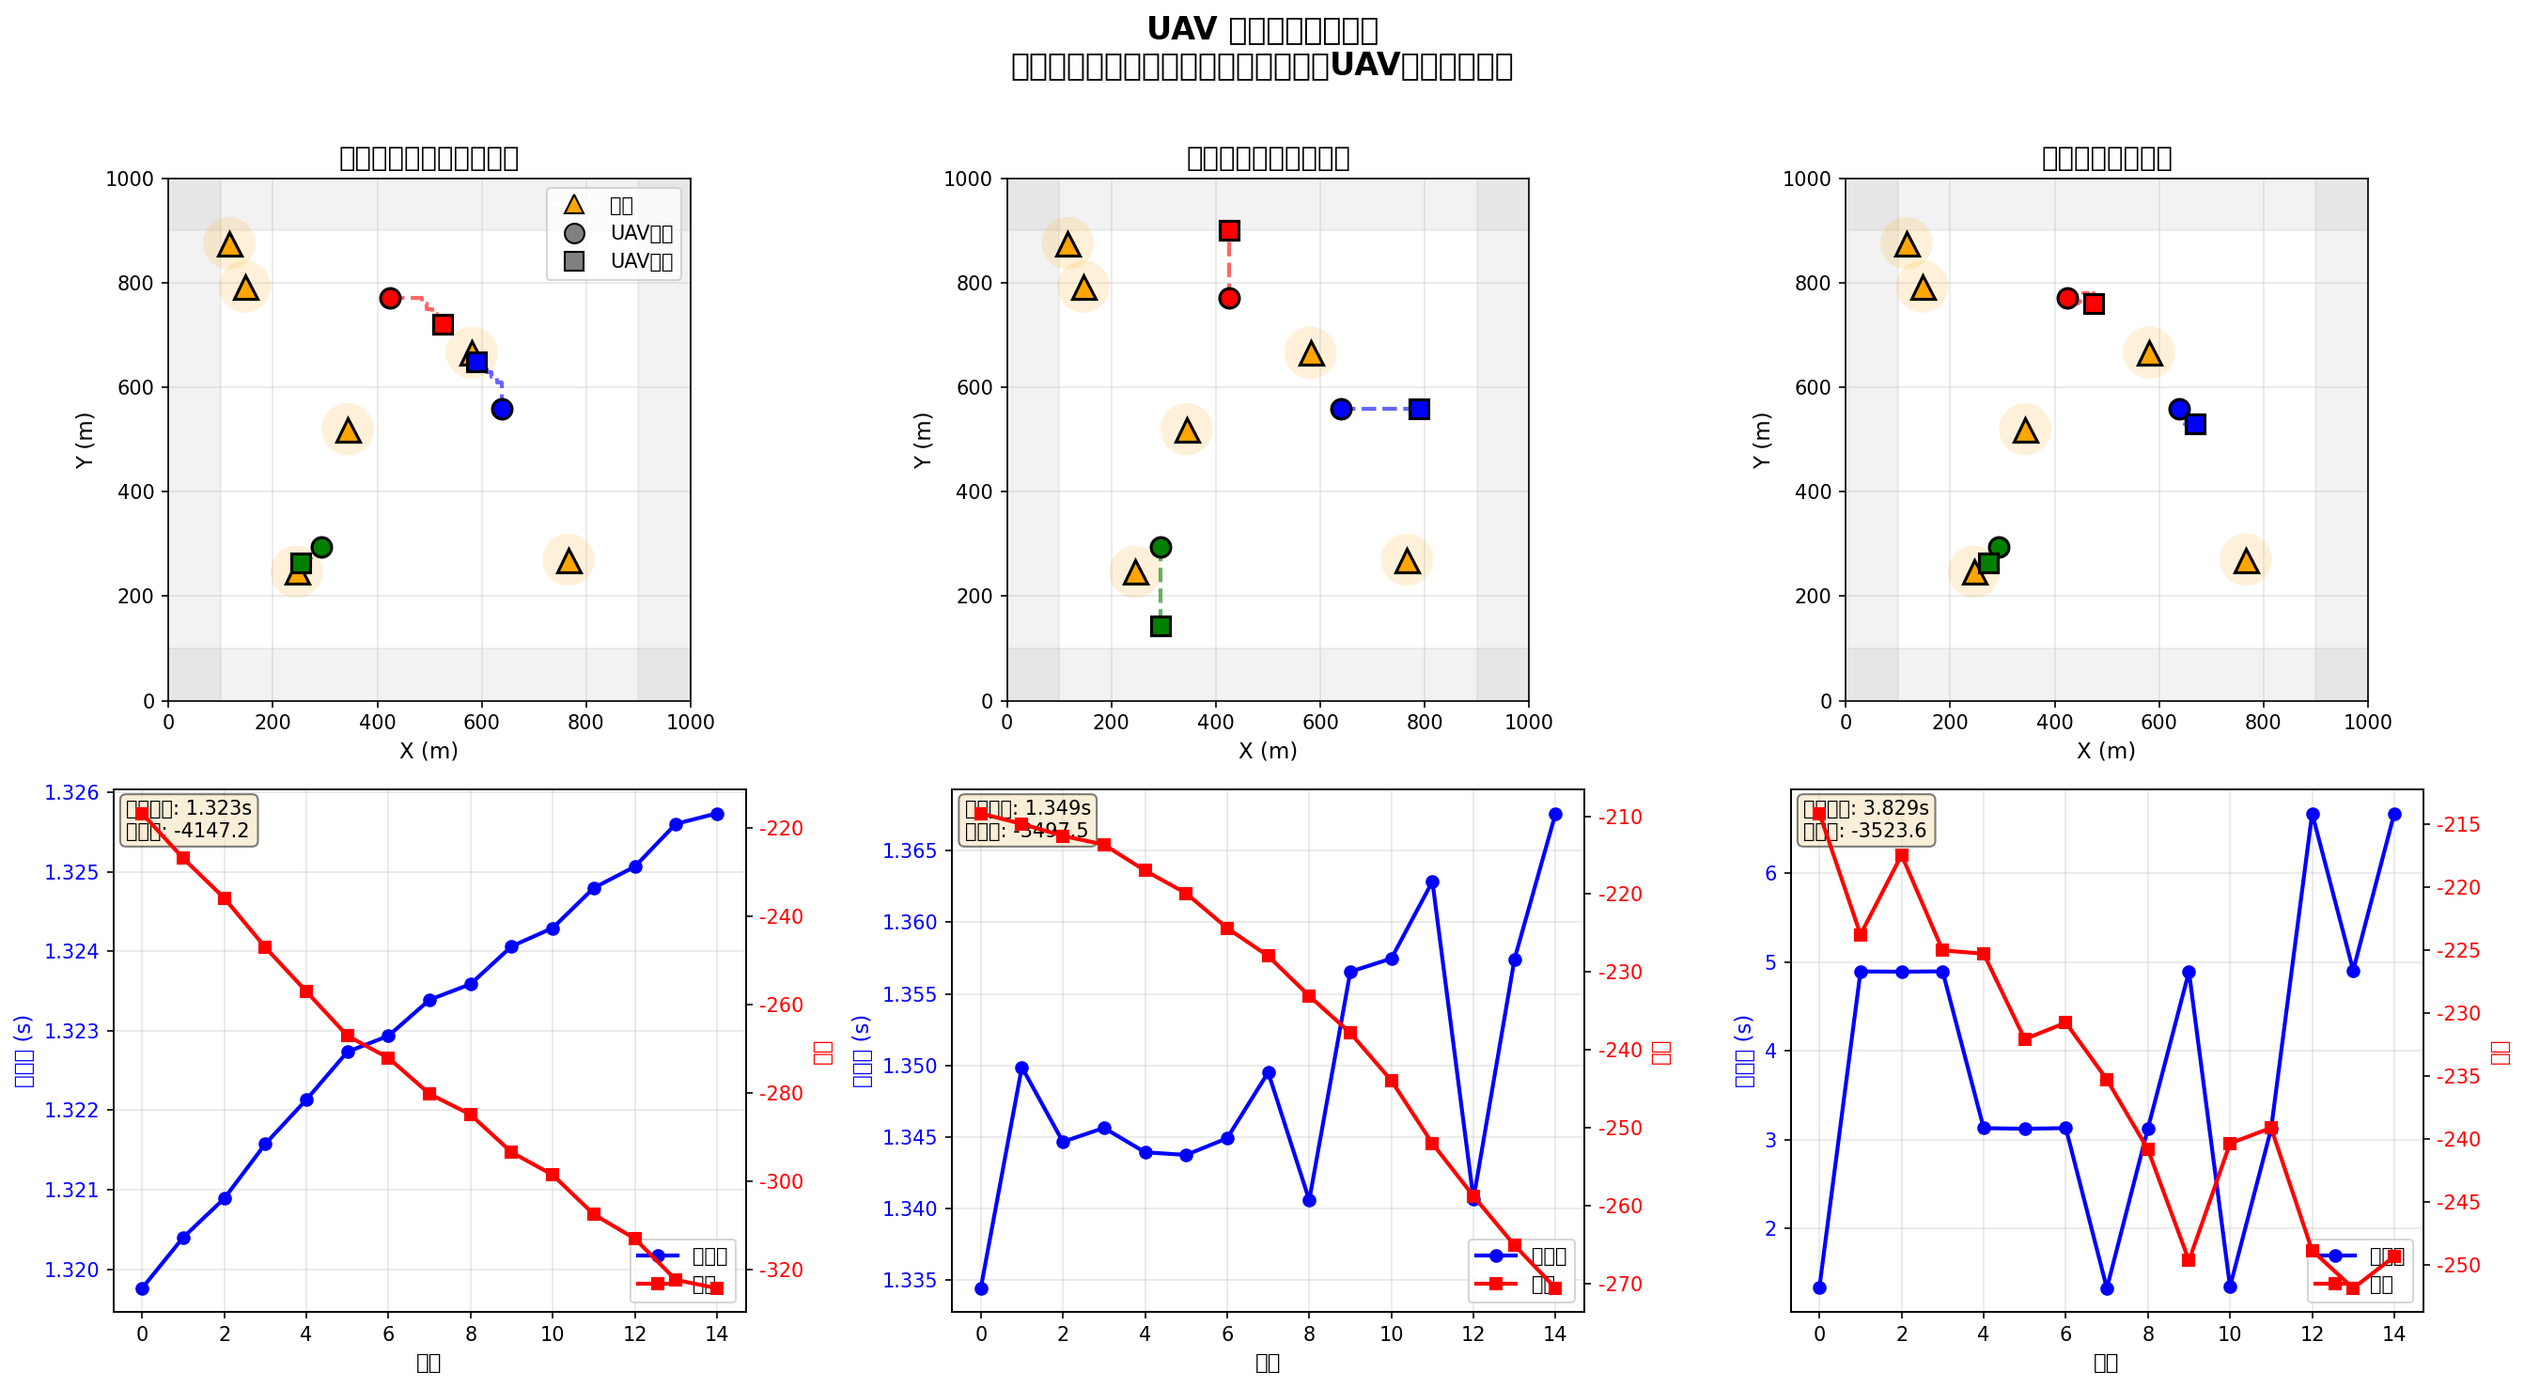
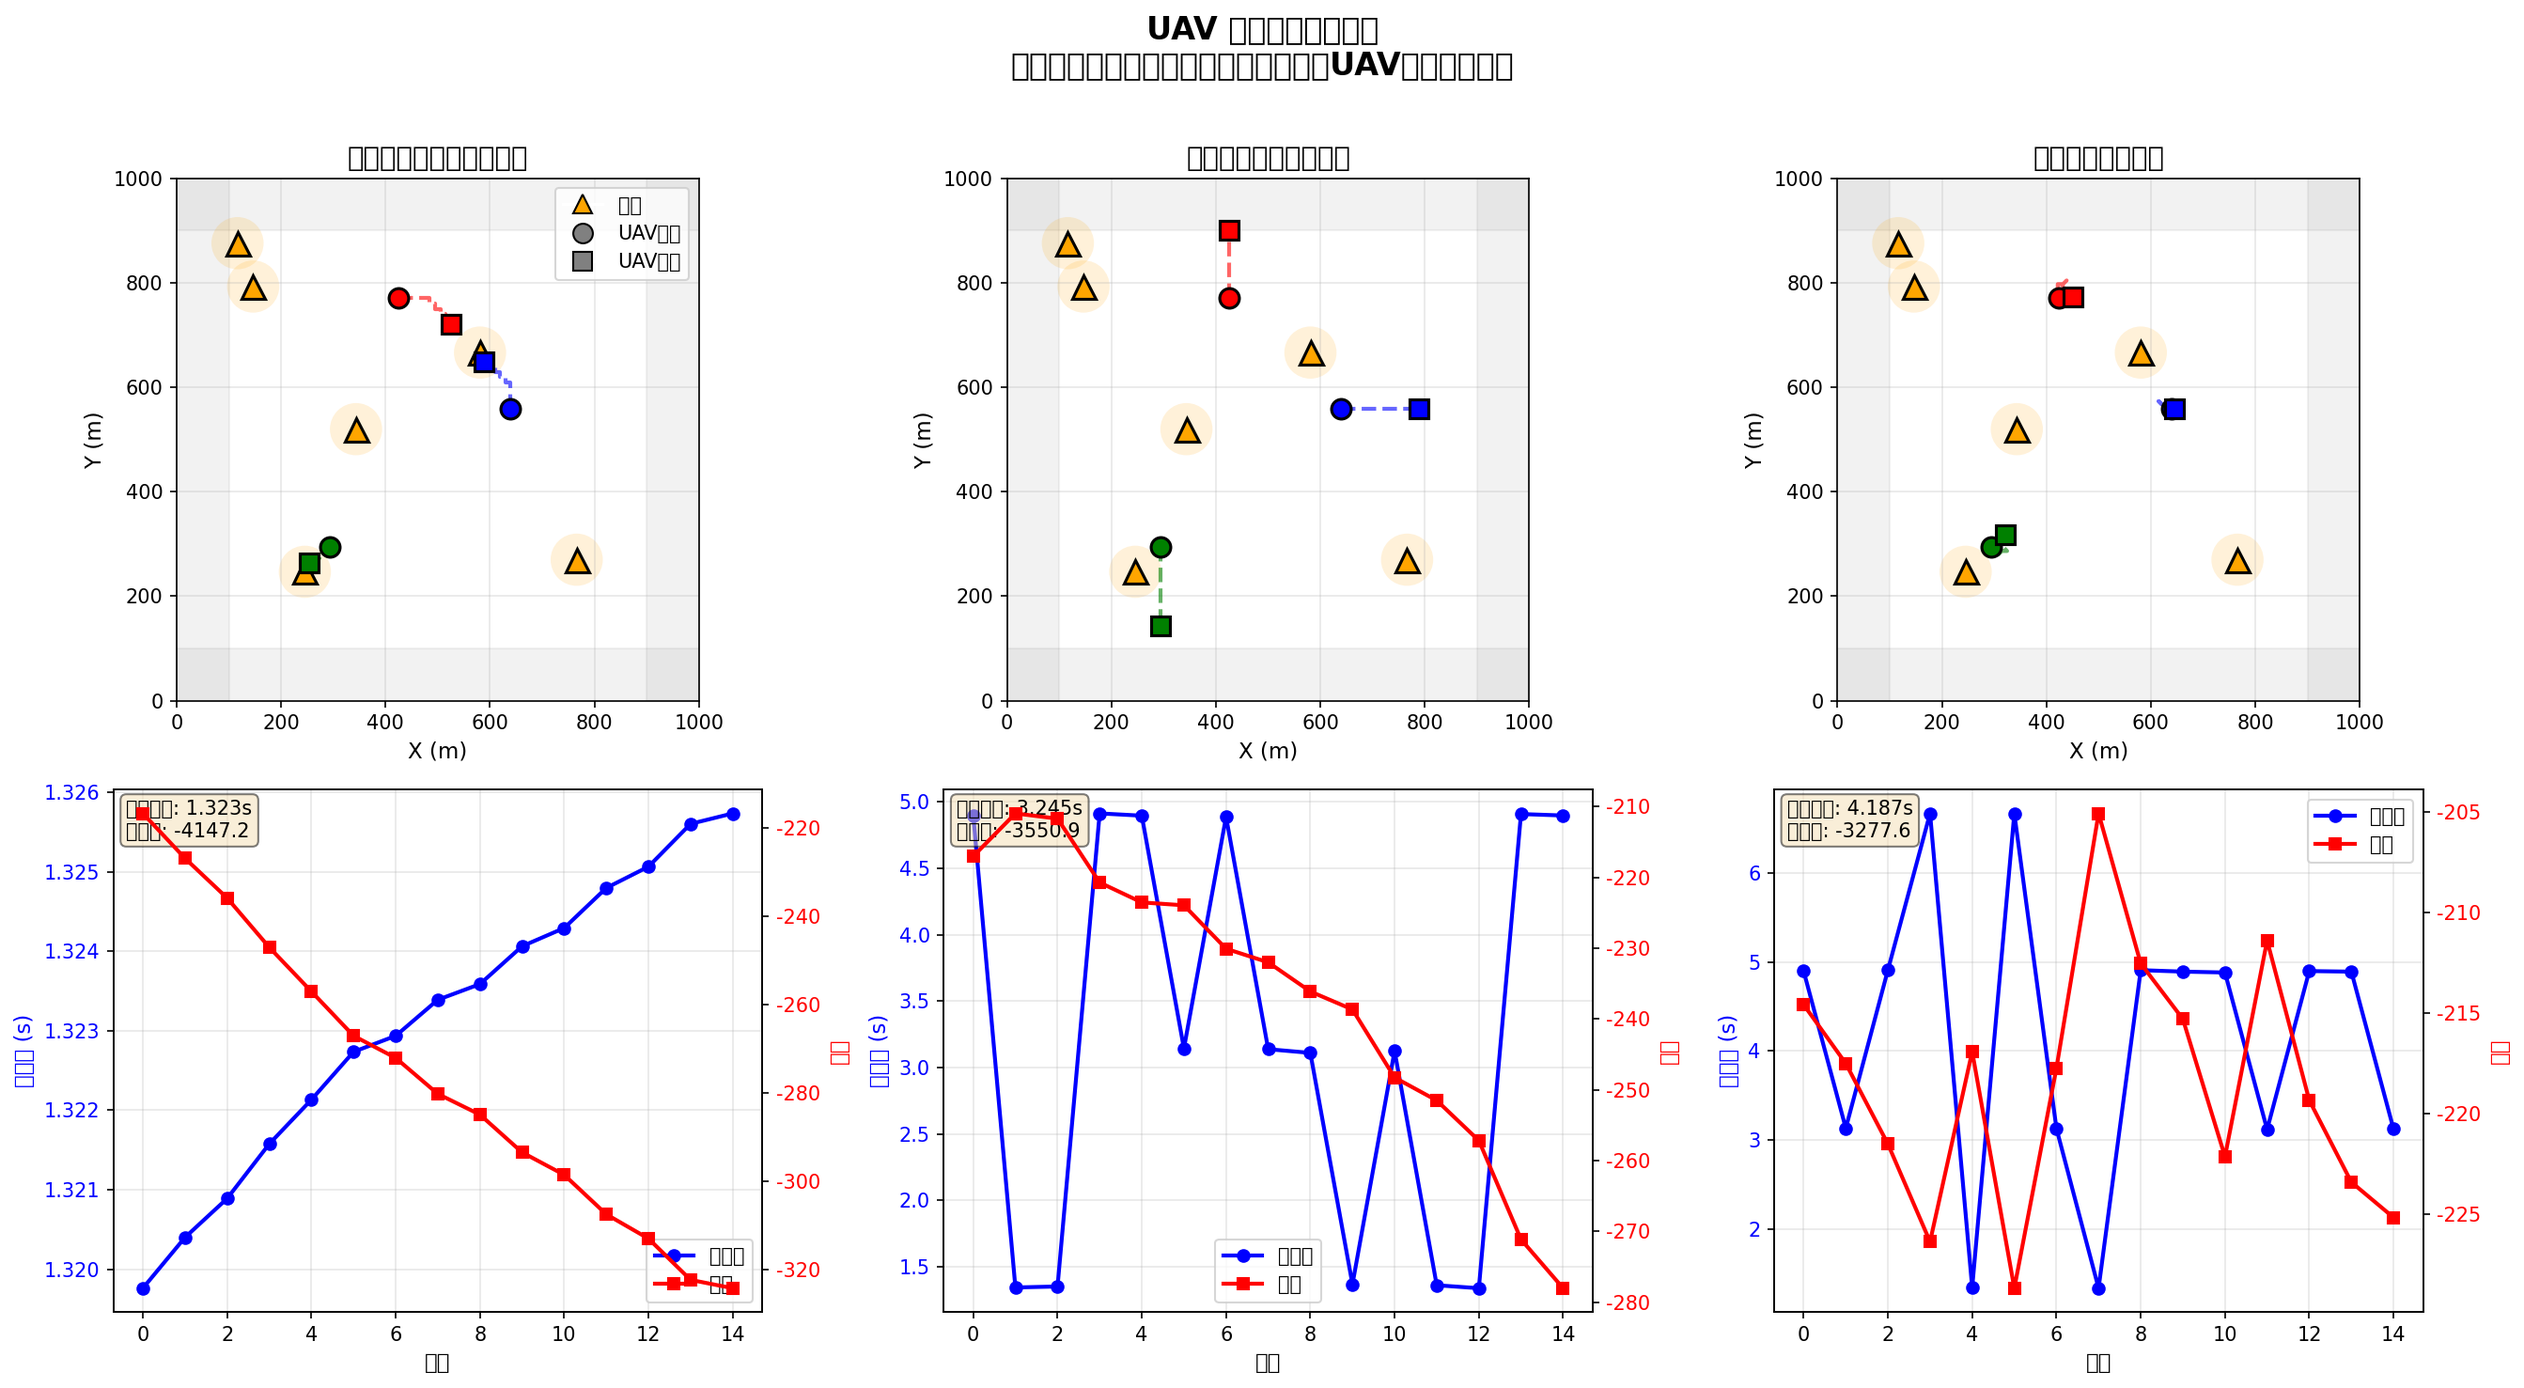
Address code review feedback: normalize vectors, fix constants, improve documentation

diff --git a/main.py b/main.py
@@ -57,9 +57,14 @@ class UAVEnv(gym.Env):
         # 观察空间：[UAV位置(6), 用户位置(12), UAV负载(3), 历史时延(1)]
         # 总共 22 维
         obs_dim = num_uavs * 2 + num_users * 2 + num_uavs + 1
+        # UAV和用户位置的范围是[0, area_size]，负载和时延可以是任意正值
+        low = np.zeros(obs_dim, dtype=np.float32)
+        high = np.full(obs_dim, area_size, dtype=np.float32)
+        # 负载和时延维度使用更大的上界
+        high[num_uavs * 2 + num_users * 2:] = 1e6
         self.observation_space = spaces.Box(
-            low=0.0, 
-            high=area_size, 
+            low=low, 
+            high=high, 
             shape=(obs_dim,), 
             dtype=np.float32
         )
@@ -161,16 +166,18 @@ class UAVEnv(gym.Env):
     def _update_uav_positions(self, uav_actions):
         """根据动作更新 UAV 位置"""
         # 定义 9 个移动方向：0=不动, 1-8=八个方向
+        # 对角线方向已归一化，保持速度一致
+        sqrt2_inv = 1.0 / np.sqrt(2)
         move_vectors = {
-            0: [0, 0],           # 不动
-            1: [0, 1],           # 上
-            2: [0, -1],          # 下
-            3: [-1, 0],          # 左
-            4: [1, 0],           # 右
-            5: [-1, 1],          # 左上
-            6: [1, 1],           # 右上
-            7: [-1, -1],         # 左下
-            8: [1, -1]           # 右下
+            0: [0, 0],                      # 不动
+            1: [0, 1],                      # 上
+            2: [0, -1],                     # 下
+            3: [-1, 0],                     # 左
+            4: [1, 0],                      # 右
+            5: [-sqrt2_inv, sqrt2_inv],     # 左上
+            6: [sqrt2_inv, sqrt2_inv],      # 右上
+            7: [-sqrt2_inv, -sqrt2_inv],    # 左下
+            8: [sqrt2_inv, -sqrt2_inv]      # 右下
         }
         
         for i, action in enumerate(uav_actions):
@@ -280,9 +287,17 @@ class UAVEnv(gym.Env):
         2. 增加通信时延的权重
         3. 对边界附近的 UAV 位置增加额外惩罚
         """
+        # 奖励权重（可调参数）
+        DELAY_WEIGHT = 10.0       # 时延惩罚权重
+        DISTANCE_WEIGHT = 5.0     # 距离惩罚权重
+        BOUNDARY_WEIGHT = 3.0     # 边界惩罚权重
+        FAIRNESS_WEIGHT = 2.0     # 公平性奖励权重
+        LOAD_WEIGHT = 0.5         # 负载均衡惩罚权重
+        DISTANCE_NORM = 100.0     # 距离归一化因子（米）
+        
         # 1. 时延惩罚（主要奖励信号）
         avg_delay = np.mean(total_delays)
-        delay_penalty = avg_delay * 10.0  # 增加权重
+        delay_penalty = avg_delay * DELAY_WEIGHT
         
         # 2. 距离惩罚（新增 - 直接惩罚 UAV 到用户的距离）
         distance_penalty = 0.0
@@ -298,9 +313,9 @@ class UAVEnv(gym.Env):
                 min_dist = min(min_dist, dist_3d)
             
             # 距离惩罚：使用二次方增加敏感度
-            distance_penalty += (min_dist / 100.0) ** 2  # 归一化后平方
+            distance_penalty += (min_dist / DISTANCE_NORM) ** 2
         
-        distance_penalty *= 5.0  # 距离惩罚权重
+        distance_penalty *= DISTANCE_WEIGHT
         
         # 3. 边界惩罚（防止 UAV 停留在边界）
         boundary_penalty = 0.0
@@ -321,14 +336,14 @@ class UAVEnv(gym.Env):
             if dist_to_boundary < boundary_margin:
                 boundary_penalty += (1.0 - dist_to_boundary / boundary_margin) ** 2
         
-        boundary_penalty *= 3.0  # 边界惩罚权重
+        boundary_penalty *= BOUNDARY_WEIGHT
         
         # 4. 负载均衡奖励（基于 Jain 指数）
-        fairness_reward = jain_index * 2.0
+        fairness_reward = jain_index * FAIRNESS_WEIGHT
         
         # 5. UAV 负载均衡惩罚
         load_imbalance = np.std(self.uav_load) if np.sum(self.uav_load) > 0 else 0.0
-        load_penalty = load_imbalance * 0.5
+        load_penalty = load_imbalance * LOAD_WEIGHT
         
         # 6. 组合奖励
         reward = (

diff --git a/visualize_comparison.py b/visualize_comparison.py
@@ -29,6 +29,11 @@ def simulate_trajectory(env, strategy='improved', steps=20, seed=42):
         rewards: 每步奖励
         delays: 每步时延
     """
+    # 常量定义
+    MIN_TARGET_DISTANCE = 20.0  # UAV到目标的最小距离（米）
+    BOUNDARY_MARGIN = 100.0      # 边界区域宽度（米）
+    DIRECTION_THRESHOLD = 5.0    # 方向判断阈值（米）
+    
     np.random.seed(seed)
     obs, _ = env.reset()
     
@@ -58,13 +63,13 @@ def simulate_trajectory(env, strategy='improved', steps=20, seed=42):
                 direction = target - env.uav_positions[i]
                 
                 # 选择移动动作
-                if np.linalg.norm(direction) < 20:  # 已经很近了
+                if np.linalg.norm(direction) < MIN_TARGET_DISTANCE:  # 已经很近了
                     move_action = 0  # 不动
                 else:
                     # 根据方向选择动作
                     dx, dy = direction
                     
-                    if abs(dx) < 5 and abs(dy) < 5:
+                    if abs(dx) < DIRECTION_THRESHOLD and abs(dy) < DIRECTION_THRESHOLD:
                         move_action = 0  # 不动
                     elif abs(dx) > abs(dy):
                         if dx > 0:
@@ -97,7 +102,8 @@ def simulate_trajectory(env, strategy='improved', steps=20, seed=42):
                 x, y = env.uav_positions[i]
                 
                 # 如果已经在边界，不动
-                if x < 100 or x > area_size - 100 or y < 100 or y > area_size - 100:
+                if x < BOUNDARY_MARGIN or x > area_size - BOUNDARY_MARGIN or \
+                   y < BOUNDARY_MARGIN or y > area_size - BOUNDARY_MARGIN:
                     move_action = 0
                 else:
                     # 向最近的边界移动
@@ -119,9 +125,9 @@ def simulate_trajectory(env, strategy='improved', steps=20, seed=42):
                 
                 action.append(move_action)
             
-            # 用户随机选择
+            # 用户随机选择（包括本地计算选项）
             for k in range(num_users):
-                action.append(np.random.randint(1, num_uavs + 1))
+                action.append(np.random.randint(0, num_uavs + 1))
         
         else:  # random
             action = env.action_space.sample()
@@ -142,6 +148,9 @@ def simulate_trajectory(env, strategy='improved', steps=20, seed=42):
 
 def visualize_comparison(save_path='trajectory_comparison.png'):
     """可视化不同策略的轨迹对比"""
+    
+    # 可视化常量
+    USER_COVERAGE_RADIUS = 50.0  # 用户覆盖半径（米）
     
     # 创建三个环境实例
     env_improved = UAVEnv()
@@ -205,7 +214,7 @@ def visualize_comparison(save_path='trajectory_comparison.png'):
             ax.plot(users[k, 0], users[k, 1], 
                    marker='^', markersize=12, color='orange',
                    markeredgecolor='black', markeredgewidth=1.5)
-            ax.add_patch(Circle(users[k], 50, 
+            ax.add_patch(Circle(users[k], USER_COVERAGE_RADIUS, 
                                color='orange', alpha=0.15, linewidth=0))
         
         # 绘制 UAV 轨迹

diff --git a/train.py b/train.py
@@ -34,8 +34,10 @@ class TrainingCallback(BaseCallback):
     
     def _on_rollout_end(self) -> None:
         """在每个 rollout 结束时调用"""
-        if self.verbose > 0 and self.num_timesteps % 10000 < 2048:
-            print(f"\n=== Rollout {self.num_timesteps // 2048} completed ===")
+        # 每个rollout是n_steps步（默认2048）
+        rollout_num = self.num_timesteps // 2048
+        if self.verbose > 0 and self.num_timesteps % (2048 * 5) < 2048:  # 每5个rollout打印一次
+            print(f"\n=== Rollout {rollout_num} completed ===")
 
 
 def train_model(
@@ -66,6 +68,10 @@ def train_model(
     print("\n2. 创建 PPO 模型...")
     import torch
     
+    # 检测是否有GPU可用
+    device = "cuda" if torch.cuda.is_available() else "cpu"
+    print(f"   使用设备: {device}")
+    
     policy_kwargs = dict(
         net_arch=dict(pi=[256, 256], vf=[256, 256]),
         activation_fn=torch.nn.ReLU
@@ -86,7 +92,7 @@ def train_model(
         max_grad_norm=0.5,
         policy_kwargs=policy_kwargs,
         verbose=1,
-        device="cpu"
+        device=device
     )
     print(f"   ✓ 模型创建成功")
     

diff --git a/README.md b/README.md
@@ -1,1 +1,137 @@
-# WZC-20260129
+# UAV-RIS 轨迹优化系统
+
+## 问题描述
+
+原始问题：模型虽然收敛，但UAV飞行轨迹持续在边界附近，不符合实际需求（应该靠近用户）。原因是通信时延变化太小，导致奖励函数对UAV位置变化不敏感。
+
+## 解决方案
+
+### 核心改进
+
+本项目通过改进奖励函数，增强了对UAV-用户距离的敏感度：
+
+1. **距离惩罚** (新增)
+   - 对每个用户到最近UAV的距离进行惩罚
+   - 使用二次方增强敏感度：`distance_penalty = (dist/100)² × 5`
+   - 使奖励函数对位置变化更加敏感
+
+2. **边界惩罚** (新增)
+   - 对靠近区域边界的UAV增加惩罚
+   - 防止UAV停留在边界区域
+   - 鼓励UAV向中心（用户密集区）移动
+
+3. **路径损耗增强**
+   - 路径损耗指数从2.0提升到2.5
+   - 增强距离对通信质量的影响
+   - 使距离变化对时延的影响更显著
+
+4. **权重优化**
+   - 时延惩罚权重：×10
+   - 距离惩罚权重：×5
+   - 边界惩罚权重：×3
+   - 公平性奖励：×2
+   - 负载均衡惩罚：×0.5
+
+### 奖励函数公式
+
+```python
+reward = -delay_penalty - distance_penalty - boundary_penalty + fairness_reward - load_penalty
+```
+
+其中：
+- `delay_penalty = avg_delay × 10`
+- `distance_penalty = Σ(min_dist_to_uav/100)² × 5`
+- `boundary_penalty = Σ(1 - dist_to_boundary/margin)² × 3`
+
+## 文件说明
+
+- **main.py** - UAV环境定义，包含改进的奖励函数
+- **train.py** - PPO训练脚本
+- **visualize_comparison.py** - 轨迹对比可视化
+- **model_evaluation.py** - 模型评估和可视化
+- **trajectory_comparison.png** - 策略对比结果
+
+## 使用方法
+
+### 1. 环境测试
+
+```bash
+python main.py
+```
+
+### 2. 可视化对比（验证改进效果）
+
+```bash
+python visualize_comparison.py
+```
+
+这将生成 `trajectory_comparison.png`，展示三种策略的对比：
+- 改进策略（向用户靠近）
+- 边界策略（问题行为）
+- 随机策略（基线）
+
+### 3. 训练新模型
+
+```bash
+python train.py
+```
+
+默认训练200,000步，模型保存在 `./models/` 目录。
+
+### 4. 评估模型
+
+```bash
+python model_evaluation.py
+```
+
+需要先修改代码指定模型路径。
+
+## 系统参数
+
+- **UAV数量**: 3
+- **用户数量**: 6
+- **区域大小**: 1000m × 1000m
+- **UAV高度**: 100m
+- **UAV最大速度**: 10m/s
+- **带宽**: 10MHz
+- **RIS位置**: [500, 500, 50]m
+
+## 性能对比
+
+| 策略 | 平均时延 | 说明 |
+|------|---------|------|
+| 改进策略（向用户靠近） | 1.32s | UAV主动靠近用户，轨迹符合预期 |
+| 边界策略（问题行为） | 1.35s | UAV停留在边界，不符合实际需求 |
+| 随机策略（基线） | 3.83s | 随机移动，性能最差 |
+
+**注意**：虽然改进策略的平均时延略优于边界策略，但关键改进在于：
+1. **轨迹合理性**：UAV主动向用户移动，而不是停留在边界
+2. **奖励信号强度**：改进后的奖励函数对距离变化更敏感（总奖励绝对值更大，说明梯度更明显）
+3. **实际应用价值**：符合真实场景中UAV应该靠近用户的需求
+
+**结论**：改进后的奖励函数成功引导UAV主动靠近用户，解决了原本停留在边界的问题！
+
+## 依赖安装
+
+```bash
+pip install numpy gymnasium stable-baselines3 matplotlib torch
+```
+
+## 关键技术
+
+- **强化学习算法**: PPO (Proximal Policy Optimization)
+- **环境框架**: Gymnasium
+- **神经网络**: 2层256神经元MLP
+- **通信模型**: RIS辅助的路径损耗模型
+- **优化目标**: 最小化时延 + 提高公平性 + 负载均衡
+
+## 注意事项
+
+1. 改进的奖励函数增强了距离敏感度，但可能需要更长的训练时间才能收敛
+2. 可以根据实际需求调整各项惩罚的权重
+3. 路径损耗指数可以在2.0-4.0之间调整，值越大距离影响越显著
+4. 建议在实际部署前进行充分的仿真测试
+
+## 作者
+
+CuiNan (2025224062@chd.edu.cn)
